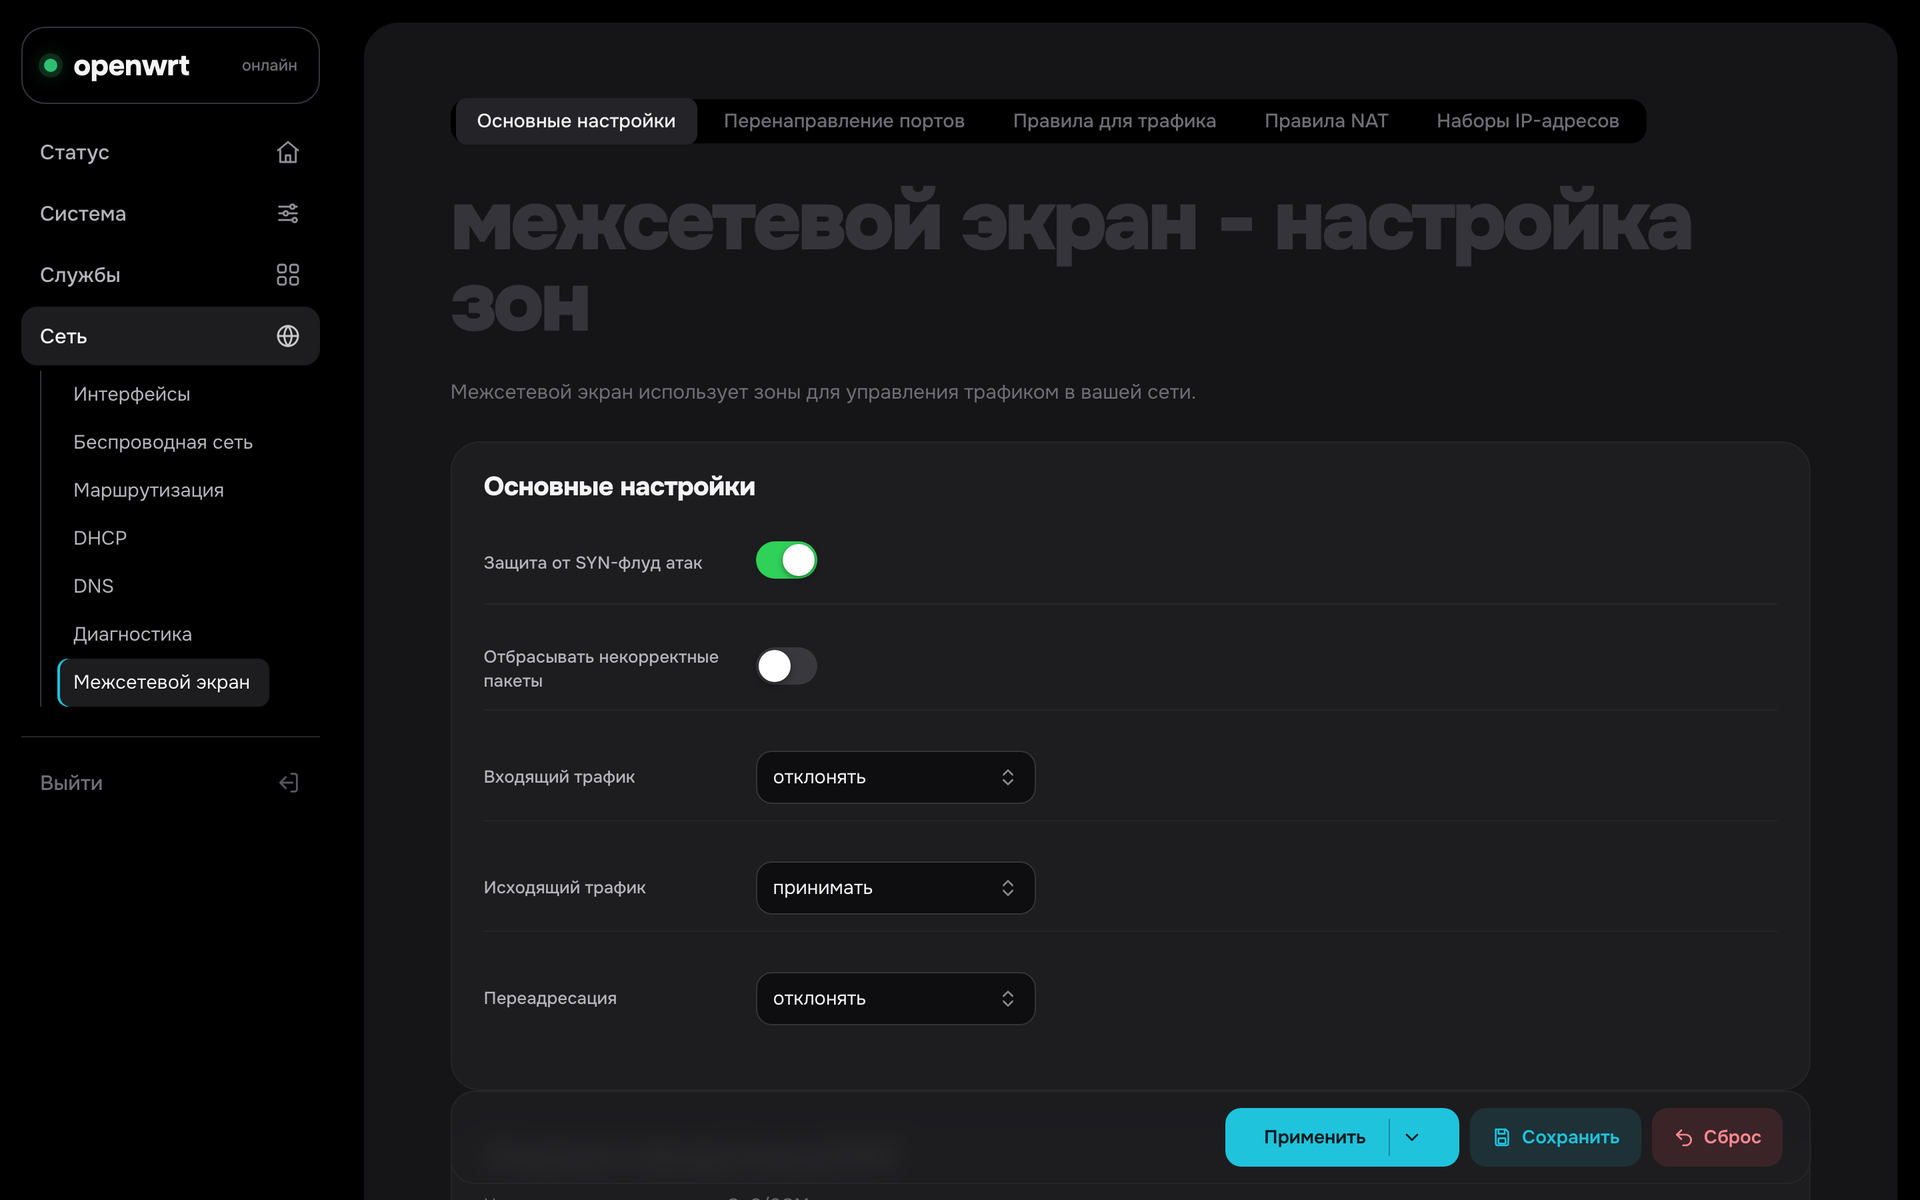
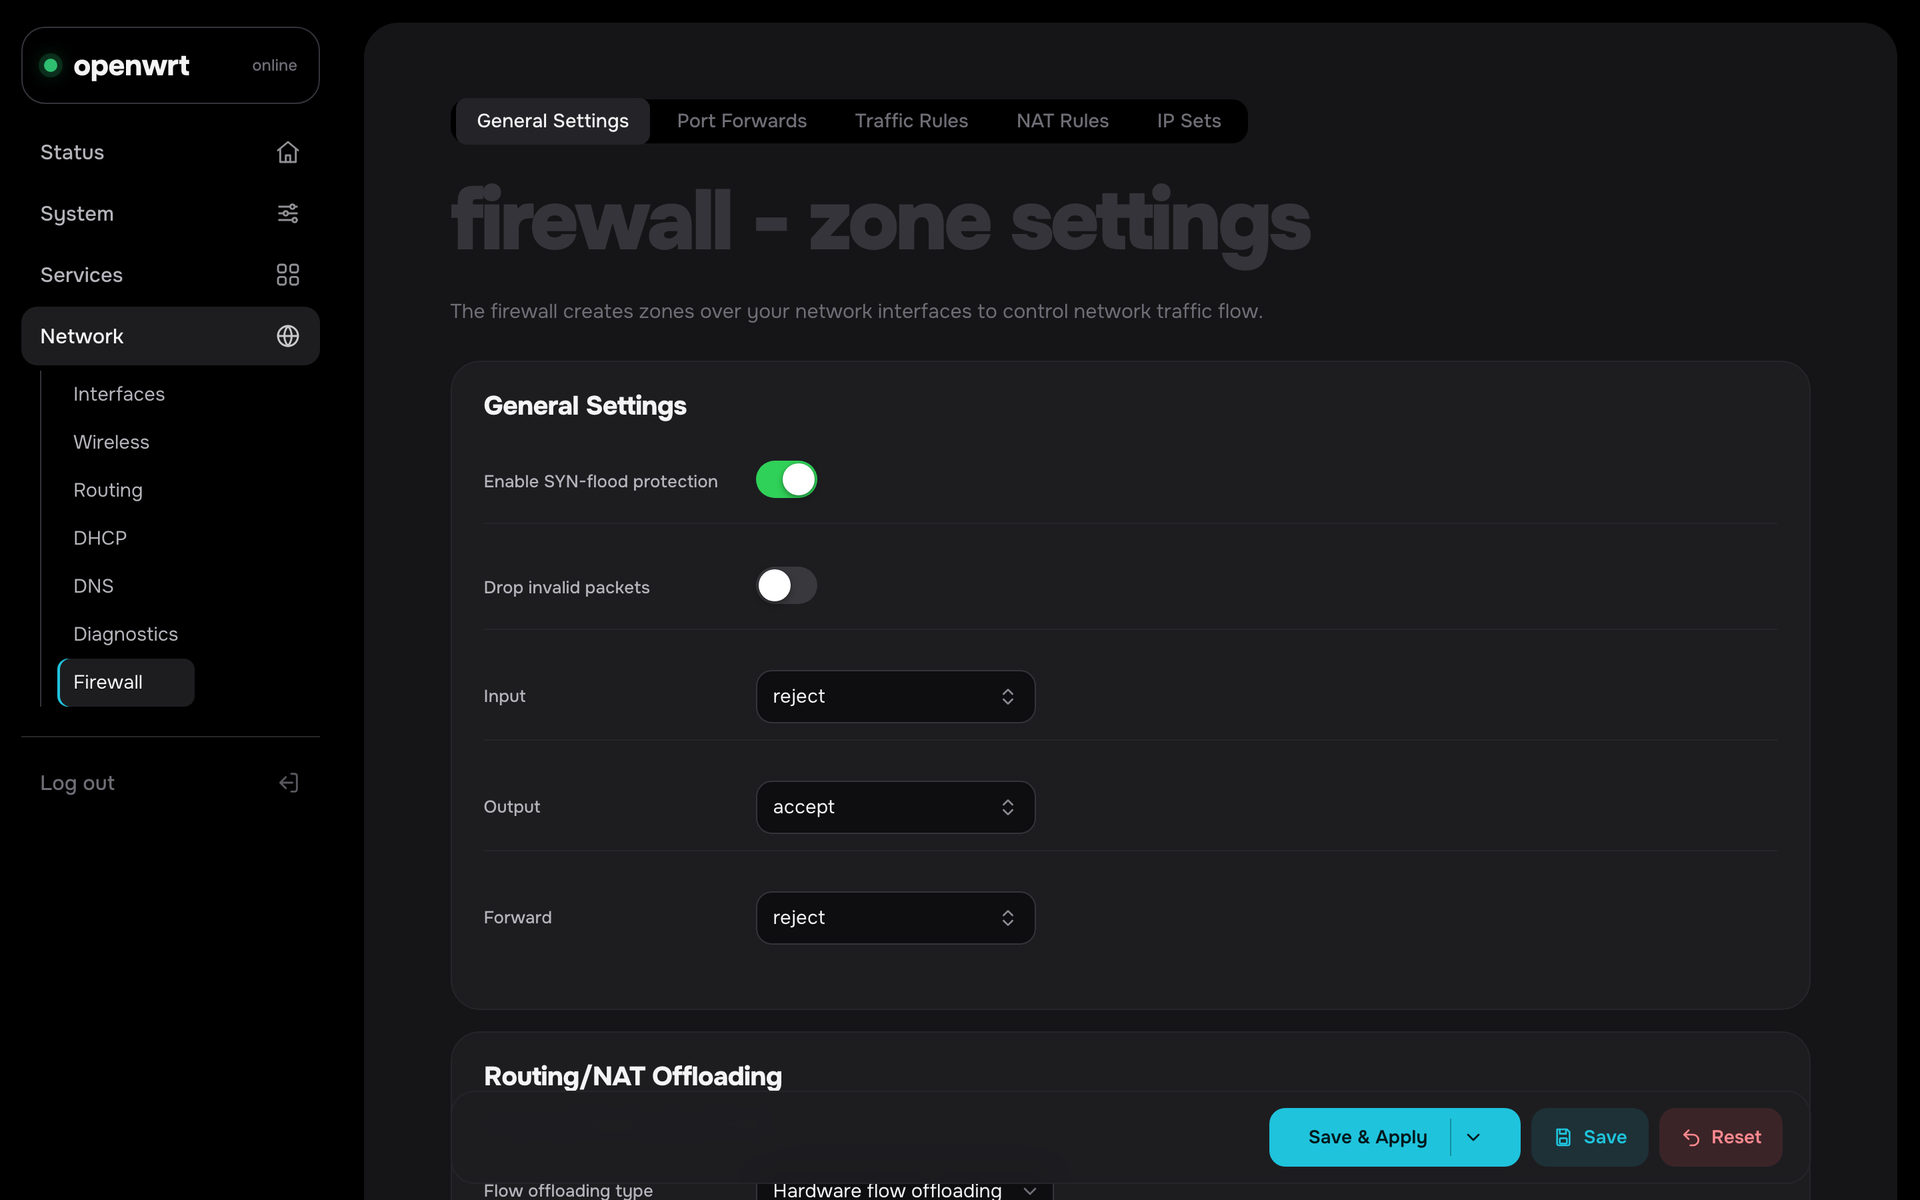
Use English screenshots in README, keep Russian ones for README_ru

diff --git a/README_ru.md b/README_ru.md
@@ -6,16 +6,16 @@
 
 [English version](README.md)
 
-![Обзор](docs/overview.png)
+![Обзор](docs/ru/overview.png)
 
 <table>
 <tr>
-<td><img src="docs/interfaces.png" alt="Интерфейсы"></td>
-<td><img src="docs/wireless.png" alt="Беспроводная сеть"></td>
+<td><img src="docs/ru/interfaces.png" alt="Интерфейсы"></td>
+<td><img src="docs/ru/wireless.png" alt="Беспроводная сеть"></td>
 </tr>
 <tr>
-<td><img src="docs/firewall.png" alt="Межсетевой экран: переключатели и селекты"></td>
-<td><img src="docs/mobile.png" alt="Телефон"></td>
+<td><img src="docs/ru/firewall.png" alt="Межсетевой экран: переключатели и селекты"></td>
+<td><img src="docs/ru/mobile.png" alt="Телефон"></td>
 </tr>
 </table>
 
